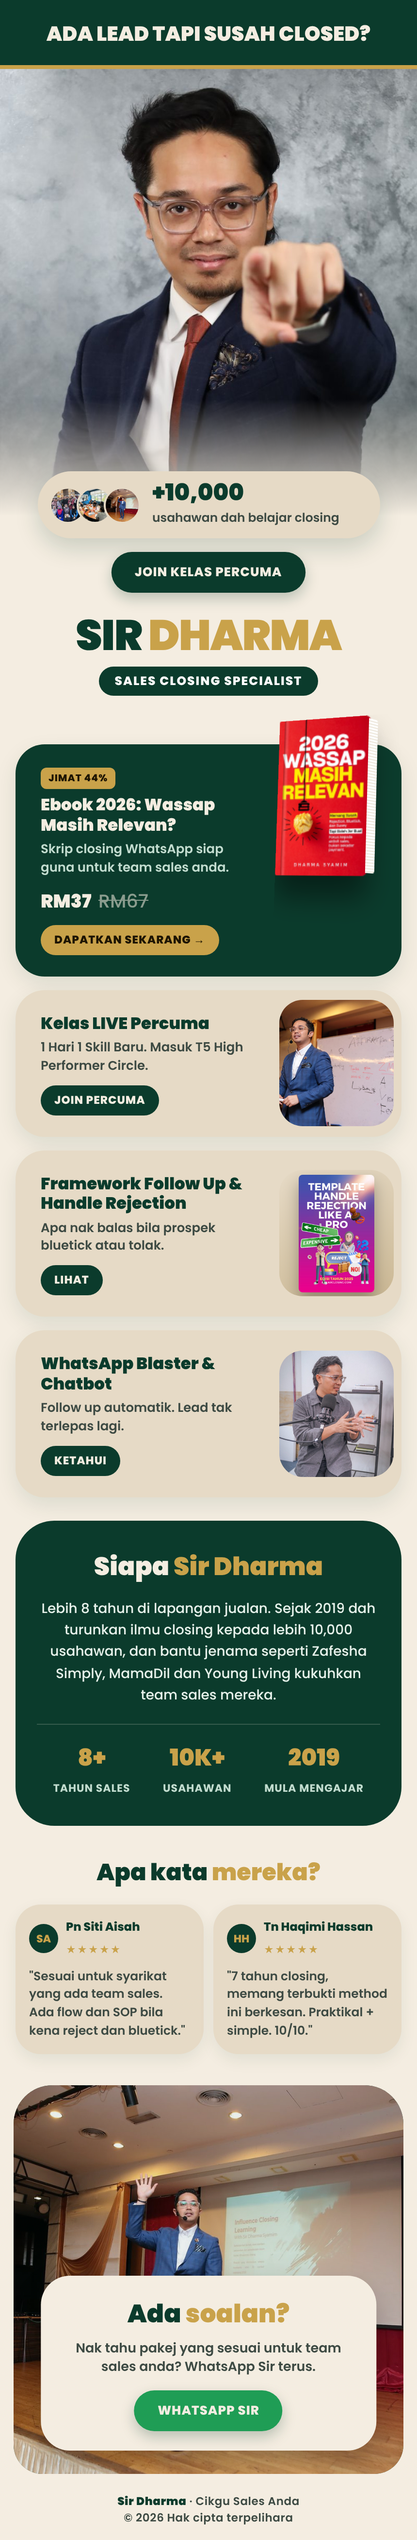
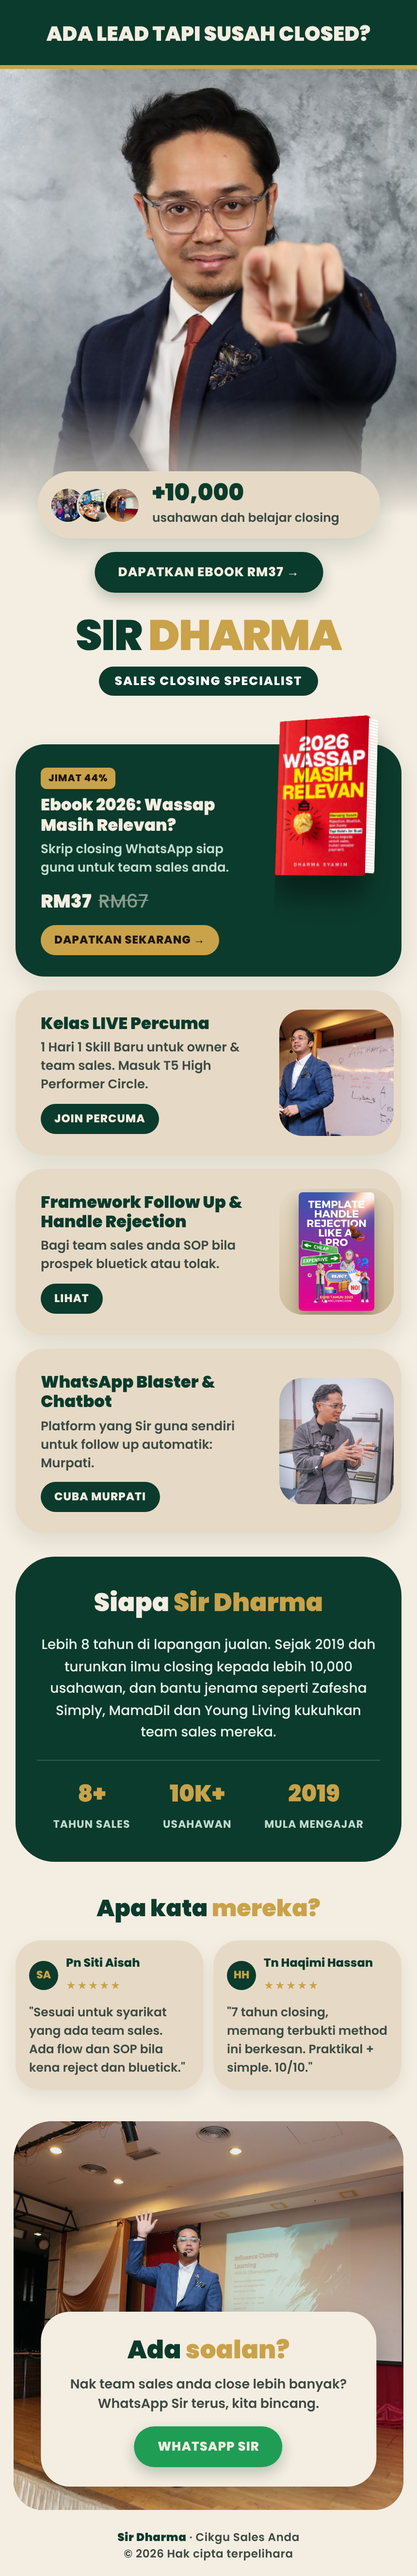
Bio: apply grill decisions (ebook primary CTA, pixel, Murpati card)
Claude-Session: https://claude.ai/code/session_01TPky1w5Smp95p1hdnhCb8t

diff --git a/bio/TAMPAL-custom-html.html b/bio/TAMPAL-custom-html.html
@@ -85,12 +85,12 @@
 </style>
 <div class="sd">
   <div class="top pop"><h2>Ada lead tapi susah closed?</h2></div>
-  <div class="hero pop" style="animation-delay:.1s"><img src="https://raw.githubusercontent.com/dhsfikri/website-sales/5b516483c7606f086d6cbf8e2bc9295ffb1f19fc/assets/galeri/studio-tunjuk.jpg" alt="Sir Dharma"></div>
+  <div class="hero pop" style="animation-delay:.1s"><img src="https://raw.githubusercontent.com/dhsfikri/website-sales/d8474374b92ad81f5b9ecffa42b513c53975b298/assets/galeri/studio-tunjuk.jpg" alt="Sir Dharma"></div>
   <div class="stat pop" style="animation-delay:.25s">
-    <div class="faces"><img src="https://raw.githubusercontent.com/dhsfikri/website-sales/5b516483c7606f086d6cbf8e2bc9295ffb1f19fc/assets/galeri/team-farmasi.jpg" alt=""><img src="https://raw.githubusercontent.com/dhsfikri/website-sales/5b516483c7606f086d6cbf8e2bc9295ffb1f19fc/assets/galeri/coaching-hq.jpg" alt=""><img src="https://raw.githubusercontent.com/dhsfikri/website-sales/5b516483c7606f086d6cbf8e2bc9295ffb1f19fc/assets/galeri/pentas-influence.jpg" alt=""></div>
+    <div class="faces"><img src="https://raw.githubusercontent.com/dhsfikri/website-sales/d8474374b92ad81f5b9ecffa42b513c53975b298/assets/galeri/team-farmasi.jpg" alt=""><img src="https://raw.githubusercontent.com/dhsfikri/website-sales/d8474374b92ad81f5b9ecffa42b513c53975b298/assets/galeri/coaching-hq.jpg" alt=""><img src="https://raw.githubusercontent.com/dhsfikri/website-sales/d8474374b92ad81f5b9ecffa42b513c53975b298/assets/galeri/pentas-influence.jpg" alt=""></div>
     <div><b>+10,000</b><span>usahawan dah belajar closing</span></div>
   </div>
-  <div class="center" style="margin-top:14px"><a class="pill pulse" style="animation-delay:.4s,1.2s" href="GANTI_LINK_T5" target="_top">Join kelas percuma</a></div>
+  <div class="center" style="margin-top:14px"><a class="pill pulse" style="animation-delay:.4s,1.2s" href="https://klik.vip/ebookclosing-th" target="_top" data-ev="Ebook">Dapatkan Ebook RM37 →</a></div>
 
   <div class="name pop" style="animation-delay:.5s">
     <h1>Sir <i>Dharma</i></h1>
@@ -98,21 +98,21 @@
   </div>
 
   <div class="cards">
-    <a class="rev card dark ebook" href="https://klik.vip/ebookclosing-bio" target="_top">
+    <a class="rev card dark ebook" href="https://klik.vip/ebookclosing-th" target="_top" data-ev="Ebook">
       <div class="tx"><span class="tag">JIMAT 44%</span><h3>Ebook 2026: Wassap Masih Relevan?</h3><p>Skrip closing WhatsApp siap guna untuk team sales anda.</p><div class="price">RM37 <s>RM67</s></div><span class="btn">Dapatkan sekarang →</span></div>
-      <div class="bk3d"><div class="bk"><img src="https://raw.githubusercontent.com/dhsfikri/website-sales/5b516483c7606f086d6cbf8e2bc9295ffb1f19fc/assets/covers/ebook-2026.jpg" alt="Ebook 2026"></div></div>
+      <div class="bk3d"><div class="bk"><img src="https://raw.githubusercontent.com/dhsfikri/website-sales/d8474374b92ad81f5b9ecffa42b513c53975b298/assets/covers/ebook-2026.jpg" alt="Ebook 2026"></div></div>
     </a>
-    <a class="rev card" href="GANTI_LINK_T5" target="_top">
-      <div class="tx"><h3>Kelas LIVE Percuma</h3><p>1 Hari 1 Skill Baru. Masuk T5 High Performer Circle.</p><span class="btn">Join percuma</span></div>
-      <div class="ph"><img src="https://raw.githubusercontent.com/dhsfikri/website-sales/5b516483c7606f086d6cbf8e2bc9295ffb1f19fc/assets/galeri/hero-whiteboard.jpg" alt=""></div>
+    <a class="rev card" href="GANTI_LINK_T5" target="_top" data-ev="KelasT5">
+      <div class="tx"><h3>Kelas LIVE Percuma</h3><p>1 Hari 1 Skill Baru untuk owner &amp; team sales. Masuk T5 High Performer Circle.</p><span class="btn">Join percuma</span></div>
+      <div class="ph"><img src="https://raw.githubusercontent.com/dhsfikri/website-sales/d8474374b92ad81f5b9ecffa42b513c53975b298/assets/galeri/hero-whiteboard.jpg" alt=""></div>
     </a>
-    <a class="rev card" href="GANTI_LINK_FRAMEWORK" target="_top">
-      <div class="tx"><h3>Framework Follow Up &amp; Handle Rejection</h3><p>Apa nak balas bila prospek bluetick atau tolak.</p><span class="btn">Lihat</span></div>
-      <div class="ph book"><img src="https://raw.githubusercontent.com/dhsfikri/website-sales/5b516483c7606f086d6cbf8e2bc9295ffb1f19fc/assets/covers/handle-rejection-2025.jpg" alt=""></div>
+    <a class="rev card" href="GANTI_LINK_FRAMEWORK" target="_top" data-ev="Framework">
+      <div class="tx"><h3>Framework Follow Up &amp; Handle Rejection</h3><p>Bagi team sales anda SOP bila prospek bluetick atau tolak.</p><span class="btn">Lihat</span></div>
+      <div class="ph book"><img src="https://raw.githubusercontent.com/dhsfikri/website-sales/d8474374b92ad81f5b9ecffa42b513c53975b298/assets/covers/handle-rejection-2025.jpg" alt=""></div>
     </a>
-    <a class="rev card" href="GANTI_LINK_BLASTER" target="_top">
-      <div class="tx"><h3>WhatsApp Blaster &amp; Chatbot</h3><p>Follow up automatik. Lead tak terlepas lagi.</p><span class="btn">Ketahui</span></div>
-      <div class="ph"><img src="https://raw.githubusercontent.com/dhsfikri/website-sales/5b516483c7606f086d6cbf8e2bc9295ffb1f19fc/assets/galeri/podcast-sir.jpg" alt=""></div>
+    <a class="rev card" href="GANTI_LINK_MURPATI" target="_top" data-ev="Murpati">
+      <div class="tx"><h3>WhatsApp Blaster &amp; Chatbot</h3><p>Platform yang Sir guna sendiri untuk follow up automatik: Murpati.</p><span class="btn">Cuba Murpati</span></div>
+      <div class="ph"><img src="https://raw.githubusercontent.com/dhsfikri/website-sales/d8474374b92ad81f5b9ecffa42b513c53975b298/assets/galeri/podcast-sir.jpg" alt=""></div>
     </a>
   </div>
 
@@ -131,11 +131,11 @@
   </div>
 
   <div class="end rev">
-    <img src="https://raw.githubusercontent.com/dhsfikri/website-sales/5b516483c7606f086d6cbf8e2bc9295ffb1f19fc/assets/galeri/pentas-influence.jpg" alt="">
+    <img src="https://raw.githubusercontent.com/dhsfikri/website-sales/d8474374b92ad81f5b9ecffa42b513c53975b298/assets/galeri/pentas-influence.jpg" alt="">
     <div class="box">
       <h2>Ada <i>soalan?</i></h2>
-      <p>Nak tahu pakej yang sesuai untuk team sales anda? WhatsApp Sir terus.</p>
-      <a class="pill wa" href="https://wa.me/60167677759?text=Salam%20Sir%2C%20saya%20nak%20tanya%20pakej%20untuk%20team%20sales%20saya" target="_top">WhatsApp Sir</a>
+      <p>Nak team sales anda close lebih banyak? WhatsApp Sir terus, kita bincang.</p>
+      <a class="pill wa" data-ev="WhatsApp" href="https://wa.me/60167677759?text=Salam%20Sir%2C%20saya%20nak%20tanya%20pakej%20untuk%20team%20sales%20saya" target="_top">WhatsApp Sir</a>
     </div>
   </div>
   <div class="foot"><b>Sir Dharma</b> · Cikgu Sales Anda<br>© 2026 Hak cipta terpelihara</div>
@@ -146,4 +146,12 @@ var io=new IntersectionObserver(function(es){es.forEach(function(e){if(e.isInter
 r.querySelectorAll('.rev').forEach(function(el,i){el.style.transitionDelay=(i%2?.08:0)+'s';io.observe(el)});
 setTimeout(function(){r.querySelectorAll('.rev').forEach(function(el){el.classList.add('in')})},4000);})();
 </script>
+<!-- Meta Pixel: SirDharma 2026 -->
+<script>
+!function(f,b,e,v,n,t,s){if(f.fbq)return;n=f.fbq=function(){n.callMethod?n.callMethod.apply(n,arguments):n.queue.push(arguments)};if(!f._fbq)f._fbq=n;n.push=n;n.loaded=!0;n.version='2.0';n.queue=[];t=b.createElement(e);t.async=!0;t.src=v;s=b.getElementsByTagName(e)[0];s.parentNode.insertBefore(t,s)}(window,document,'script','https://connect.facebook.net/en_US/fbevents.js');
+fbq('init','255927347311677');fbq('track','PageView');
+document.addEventListener('click',function(e){var a=e.target.closest&&e.target.closest('.sd [data-ev]');if(!a||!window.fbq)return;var k=a.getAttribute('data-ev');
+if(k==='Ebook'){fbq('track','ViewContent',{content_name:'Ebook 2026 dari Bio',value:37,currency:'MYR'})}else{fbq('trackCustom','BioKlik',{butang:k})}});
+</script>
+<noscript><img height="1" width="1" style="display:none" src="https://www.facebook.com/tr?id=255927347311677&ev=PageView&noscript=1"></noscript>
 <!-- ===== TAMAT ===== -->

diff --git a/bio/preview.html b/bio/preview.html
@@ -90,7 +90,7 @@
     <div class="faces"><img src="../assets/galeri/team-farmasi.jpg" alt=""><img src="../assets/galeri/coaching-hq.jpg" alt=""><img src="../assets/galeri/pentas-influence.jpg" alt=""></div>
     <div><b>+10,000</b><span>usahawan dah belajar closing</span></div>
   </div>
-  <div class="center" style="margin-top:14px"><a class="pill pulse" style="animation-delay:.4s,1.2s" href="GANTI_LINK_T5" target="_top">Join kelas percuma</a></div>
+  <div class="center" style="margin-top:14px"><a class="pill pulse" style="animation-delay:.4s,1.2s" href="https://klik.vip/ebookclosing-th" target="_top" data-ev="Ebook">Dapatkan Ebook RM37 →</a></div>
 
   <div class="name pop" style="animation-delay:.5s">
     <h1>Sir <i>Dharma</i></h1>
@@ -98,20 +98,20 @@
   </div>
 
   <div class="cards">
-    <a class="rev card dark ebook" href="https://klik.vip/ebookclosing-bio" target="_top">
+    <a class="rev card dark ebook" href="https://klik.vip/ebookclosing-th" target="_top" data-ev="Ebook">
       <div class="tx"><span class="tag">JIMAT 44%</span><h3>Ebook 2026: Wassap Masih Relevan?</h3><p>Skrip closing WhatsApp siap guna untuk team sales anda.</p><div class="price">RM37 <s>RM67</s></div><span class="btn">Dapatkan sekarang →</span></div>
       <div class="bk3d"><div class="bk"><img src="../assets/covers/ebook-2026.jpg" alt="Ebook 2026"></div></div>
     </a>
-    <a class="rev card" href="GANTI_LINK_T5" target="_top">
-      <div class="tx"><h3>Kelas LIVE Percuma</h3><p>1 Hari 1 Skill Baru. Masuk T5 High Performer Circle.</p><span class="btn">Join percuma</span></div>
+    <a class="rev card" href="GANTI_LINK_T5" target="_top" data-ev="KelasT5">
+      <div class="tx"><h3>Kelas LIVE Percuma</h3><p>1 Hari 1 Skill Baru untuk owner &amp; team sales. Masuk T5 High Performer Circle.</p><span class="btn">Join percuma</span></div>
       <div class="ph"><img src="../assets/galeri/hero-whiteboard.jpg" alt=""></div>
     </a>
-    <a class="rev card" href="GANTI_LINK_FRAMEWORK" target="_top">
-      <div class="tx"><h3>Framework Follow Up &amp; Handle Rejection</h3><p>Apa nak balas bila prospek bluetick atau tolak.</p><span class="btn">Lihat</span></div>
+    <a class="rev card" href="GANTI_LINK_FRAMEWORK" target="_top" data-ev="Framework">
+      <div class="tx"><h3>Framework Follow Up &amp; Handle Rejection</h3><p>Bagi team sales anda SOP bila prospek bluetick atau tolak.</p><span class="btn">Lihat</span></div>
       <div class="ph book"><img src="../assets/covers/handle-rejection-2025.jpg" alt=""></div>
     </a>
-    <a class="rev card" href="GANTI_LINK_BLASTER" target="_top">
-      <div class="tx"><h3>WhatsApp Blaster &amp; Chatbot</h3><p>Follow up automatik. Lead tak terlepas lagi.</p><span class="btn">Ketahui</span></div>
+    <a class="rev card" href="GANTI_LINK_MURPATI" target="_top" data-ev="Murpati">
+      <div class="tx"><h3>WhatsApp Blaster &amp; Chatbot</h3><p>Platform yang Sir guna sendiri untuk follow up automatik: Murpati.</p><span class="btn">Cuba Murpati</span></div>
       <div class="ph"><img src="../assets/galeri/podcast-sir.jpg" alt=""></div>
     </a>
   </div>
@@ -134,8 +134,8 @@
     <img src="../assets/galeri/pentas-influence.jpg" alt="">
     <div class="box">
       <h2>Ada <i>soalan?</i></h2>
-      <p>Nak tahu pakej yang sesuai untuk team sales anda? WhatsApp Sir terus.</p>
-      <a class="pill wa" href="https://wa.me/60167677759?text=Salam%20Sir%2C%20saya%20nak%20tanya%20pakej%20untuk%20team%20sales%20saya" target="_top">WhatsApp Sir</a>
+      <p>Nak team sales anda close lebih banyak? WhatsApp Sir terus, kita bincang.</p>
+      <a class="pill wa" data-ev="WhatsApp" href="https://wa.me/60167677759?text=Salam%20Sir%2C%20saya%20nak%20tanya%20pakej%20untuk%20team%20sales%20saya" target="_top">WhatsApp Sir</a>
     </div>
   </div>
   <div class="foot"><b>Sir Dharma</b> · Cikgu Sales Anda<br>© 2026 Hak cipta terpelihara</div>
@@ -146,5 +146,13 @@ var io=new IntersectionObserver(function(es){es.forEach(function(e){if(e.isInter
 r.querySelectorAll('.rev').forEach(function(el,i){el.style.transitionDelay=(i%2?.08:0)+'s';io.observe(el)});
 setTimeout(function(){r.querySelectorAll('.rev').forEach(function(el){el.classList.add('in')})},4000);})();
 </script>
+<!-- Meta Pixel: SirDharma 2026 -->
+<script>
+!function(f,b,e,v,n,t,s){if(f.fbq)return;n=f.fbq=function(){n.callMethod?n.callMethod.apply(n,arguments):n.queue.push(arguments)};if(!f._fbq)f._fbq=n;n.push=n;n.loaded=!0;n.version='2.0';n.queue=[];t=b.createElement(e);t.async=!0;t.src=v;s=b.getElementsByTagName(e)[0];s.parentNode.insertBefore(t,s)}(window,document,'script','https://connect.facebook.net/en_US/fbevents.js');
+fbq('init','255927347311677');fbq('track','PageView');
+document.addEventListener('click',function(e){var a=e.target.closest&&e.target.closest('.sd [data-ev]');if(!a||!window.fbq)return;var k=a.getAttribute('data-ev');
+if(k==='Ebook'){fbq('track','ViewContent',{content_name:'Ebook 2026 dari Bio',value:37,currency:'MYR'})}else{fbq('trackCustom','BioKlik',{butang:k})}});
+</script>
+<noscript><img height="1" width="1" style="display:none" src="https://www.facebook.com/tr?id=255927347311677&ev=PageView&noscript=1"></noscript>
 <!-- ===== TAMAT ===== -->
 </body></html>

diff --git a/bio/bio-pro.html b/bio/bio-pro.html
@@ -90,7 +90,7 @@
     <div class="faces"><img src="IMG/assets/galeri/team-farmasi.jpg" alt=""><img src="IMG/assets/galeri/coaching-hq.jpg" alt=""><img src="IMG/assets/galeri/pentas-influence.jpg" alt=""></div>
     <div><b>+10,000</b><span>usahawan dah belajar closing</span></div>
   </div>
-  <div class="center" style="margin-top:14px"><a class="pill pulse" style="animation-delay:.4s,1.2s" href="GANTI_LINK_T5" target="_top">Join kelas percuma</a></div>
+  <div class="center" style="margin-top:14px"><a class="pill pulse" style="animation-delay:.4s,1.2s" href="https://klik.vip/ebookclosing-th" target="_top" data-ev="Ebook">Dapatkan Ebook RM37 →</a></div>
 
   <div class="name pop" style="animation-delay:.5s">
     <h1>Sir <i>Dharma</i></h1>
@@ -98,20 +98,20 @@
   </div>
 
   <div class="cards">
-    <a class="rev card dark ebook" href="https://klik.vip/ebookclosing-bio" target="_top">
+    <a class="rev card dark ebook" href="https://klik.vip/ebookclosing-th" target="_top" data-ev="Ebook">
       <div class="tx"><span class="tag">JIMAT 44%</span><h3>Ebook 2026: Wassap Masih Relevan?</h3><p>Skrip closing WhatsApp siap guna untuk team sales anda.</p><div class="price">RM37 <s>RM67</s></div><span class="btn">Dapatkan sekarang →</span></div>
       <div class="bk3d"><div class="bk"><img src="IMG/assets/covers/ebook-2026.jpg" alt="Ebook 2026"></div></div>
     </a>
-    <a class="rev card" href="GANTI_LINK_T5" target="_top">
-      <div class="tx"><h3>Kelas LIVE Percuma</h3><p>1 Hari 1 Skill Baru. Masuk T5 High Performer Circle.</p><span class="btn">Join percuma</span></div>
+    <a class="rev card" href="GANTI_LINK_T5" target="_top" data-ev="KelasT5">
+      <div class="tx"><h3>Kelas LIVE Percuma</h3><p>1 Hari 1 Skill Baru untuk owner &amp; team sales. Masuk T5 High Performer Circle.</p><span class="btn">Join percuma</span></div>
       <div class="ph"><img src="IMG/assets/galeri/hero-whiteboard.jpg" alt=""></div>
     </a>
-    <a class="rev card" href="GANTI_LINK_FRAMEWORK" target="_top">
-      <div class="tx"><h3>Framework Follow Up &amp; Handle Rejection</h3><p>Apa nak balas bila prospek bluetick atau tolak.</p><span class="btn">Lihat</span></div>
+    <a class="rev card" href="GANTI_LINK_FRAMEWORK" target="_top" data-ev="Framework">
+      <div class="tx"><h3>Framework Follow Up &amp; Handle Rejection</h3><p>Bagi team sales anda SOP bila prospek bluetick atau tolak.</p><span class="btn">Lihat</span></div>
       <div class="ph book"><img src="IMG/assets/covers/handle-rejection-2025.jpg" alt=""></div>
     </a>
-    <a class="rev card" href="GANTI_LINK_BLASTER" target="_top">
-      <div class="tx"><h3>WhatsApp Blaster &amp; Chatbot</h3><p>Follow up automatik. Lead tak terlepas lagi.</p><span class="btn">Ketahui</span></div>
+    <a class="rev card" href="GANTI_LINK_MURPATI" target="_top" data-ev="Murpati">
+      <div class="tx"><h3>WhatsApp Blaster &amp; Chatbot</h3><p>Platform yang Sir guna sendiri untuk follow up automatik: Murpati.</p><span class="btn">Cuba Murpati</span></div>
       <div class="ph"><img src="IMG/assets/galeri/podcast-sir.jpg" alt=""></div>
     </a>
   </div>
@@ -134,8 +134,8 @@
     <img src="IMG/assets/galeri/pentas-influence.jpg" alt="">
     <div class="box">
       <h2>Ada <i>soalan?</i></h2>
-      <p>Nak tahu pakej yang sesuai untuk team sales anda? WhatsApp Sir terus.</p>
-      <a class="pill wa" href="https://wa.me/60167677759?text=Salam%20Sir%2C%20saya%20nak%20tanya%20pakej%20untuk%20team%20sales%20saya" target="_top">WhatsApp Sir</a>
+      <p>Nak team sales anda close lebih banyak? WhatsApp Sir terus, kita bincang.</p>
+      <a class="pill wa" data-ev="WhatsApp" href="https://wa.me/60167677759?text=Salam%20Sir%2C%20saya%20nak%20tanya%20pakej%20untuk%20team%20sales%20saya" target="_top">WhatsApp Sir</a>
     </div>
   </div>
   <div class="foot"><b>Sir Dharma</b> · Cikgu Sales Anda<br>© 2026 Hak cipta terpelihara</div>
@@ -146,4 +146,12 @@ var io=new IntersectionObserver(function(es){es.forEach(function(e){if(e.isInter
 r.querySelectorAll('.rev').forEach(function(el,i){el.style.transitionDelay=(i%2?.08:0)+'s';io.observe(el)});
 setTimeout(function(){r.querySelectorAll('.rev').forEach(function(el){el.classList.add('in')})},4000);})();
 </script>
+<!-- Meta Pixel: SirDharma 2026 -->
+<script>
+!function(f,b,e,v,n,t,s){if(f.fbq)return;n=f.fbq=function(){n.callMethod?n.callMethod.apply(n,arguments):n.queue.push(arguments)};if(!f._fbq)f._fbq=n;n.push=n;n.loaded=!0;n.version='2.0';n.queue=[];t=b.createElement(e);t.async=!0;t.src=v;s=b.getElementsByTagName(e)[0];s.parentNode.insertBefore(t,s)}(window,document,'script','https://connect.facebook.net/en_US/fbevents.js');
+fbq('init','255927347311677');fbq('track','PageView');
+document.addEventListener('click',function(e){var a=e.target.closest&&e.target.closest('.sd [data-ev]');if(!a||!window.fbq)return;var k=a.getAttribute('data-ev');
+if(k==='Ebook'){fbq('track','ViewContent',{content_name:'Ebook 2026 dari Bio',value:37,currency:'MYR'})}else{fbq('trackCustom','BioKlik',{butang:k})}});
+</script>
+<noscript><img height="1" width="1" style="display:none" src="https://www.facebook.com/tr?id=255927347311677&ev=PageView&noscript=1"></noscript>
 <!-- ===== TAMAT ===== -->

diff --git a/bio/README.md b/bio/README.md
@@ -49,3 +49,13 @@ Bio guna form sendiri (`sd-bio`) supaya jualan dari bio nampak berasingan dalam 
 - Susunan: foto hero → pill "+10,000 usahawan" → Join kelas percuma → nama besar → kad Ebook (hijau, utama) → Kelas LIVE → Framework → Blaster → Siapa Sir Dharma (8+ / 10K+ / 2019) → 2 testimoni → foto pentas + "Ada soalan?" WhatsApp → footer.
 - **Ganti dulu sebelum publish:** `GANTI_LINK_T5` (2 tempat), `GANTI_LINK_FRAMEWORK`, `GANTI_LINK_BLASTER`. Link ebook = `https://klik.vip/ebookclosing-bio` (buat short link ni, atau tukar ke `ebookclosing-th` sementara). WhatsApp = wa.me/60167677759 dengan mesej siap.
 - Dalam klik.vip: buang semua block lama, set background page krim #F4EDE1, dan tambah block **Socials** di bawah Custom HTML kalau nak ikon sosial.
+
+### Keputusan grill (17 Nov)
+- Matlamat utama bio = **jual Ebook RM37**. Butang bawah foto = "Dapatkan Ebook RM37 →". Kelas percuma jadi pilihan kedua.
+- Pelawat = owner bisnes servis yang baru ada team sales. Ayat kad ditulis untuk owner.
+- **Tiada form baru.** Link Ebook = `https://klik.vip/ebookclosing-th` (dikira bersama Threads). Jualan bio dibandingkan guna statistik klik klik.vip.
+- Pixel 255927347311677 dalam kod: PageView, ViewContent (RM37) bila klik Ebook, custom `BioKlik` untuk butang lain.
+- Ebook Panduan Closing lama dibuang. Tiada countdown (tiada tarikh tamat sebenar).
+- Kad Blaster = Murpati (link referral), ayat "Platform yang Sir guna sendiri".
+- Header = headline sahaja. Ebook = mockup buku 3D. Font Poppins tebal.
+- **Masih tunggu link:** `GANTI_LINK_T5`, `GANTI_LINK_FRAMEWORK`, `GANTI_LINK_MURPATI`.

diff --git a/case-study/04-changelog.md b/case-study/04-changelog.md
@@ -84,3 +84,4 @@ Setiap perubahan pada funnel, iklan dan setting. Paling baru di atas.
 
 ## 17 Nov: bio klik.vip/link/3944 direka semula
 - Versi 1 (block klik.vip, hijau/kuning) dan versi 2 (editorial, Custom HTML) dalam `bio/`. Ebook jadi tawaran utama; cadang form `sd-bio` + `klik.vip/ebookclosing-bio` untuk tracking bio.
+- Grill bio selesai: ebook jadi CTA utama (link ebookclosing-th, tiada form baru), pixel + event klik dalam bio, kad Murpati referral. Tunggu link T5, Framework, Murpati.
